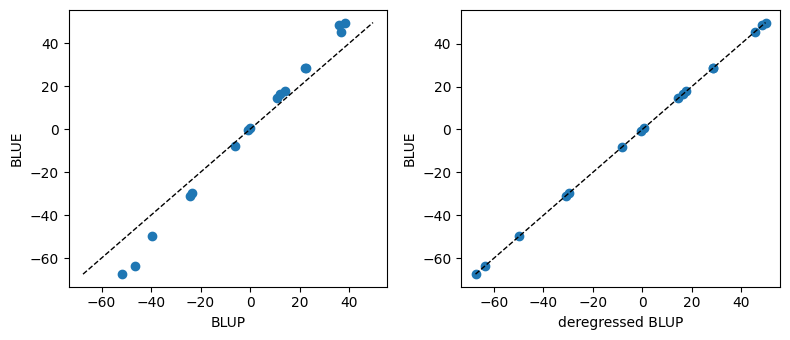
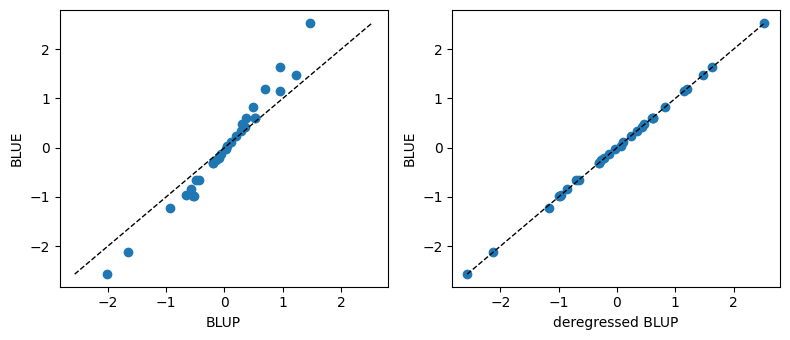
Built site for gh-pages

diff --git a/fixed_random.html b/fixed_random.html
@@ -248,7 +248,6 @@ window.Quarto = {
   <li><a href="#is-there-a-known-variance-structure" id="toc-is-there-a-known-variance-structure" class="nav-link" data-scroll-target="#is-there-a-known-variance-structure">Is there a known variance structure ?</a></li>
   <li><a href="#do-we-aim-generalization-outside-the-training-dataset" id="toc-do-we-aim-generalization-outside-the-training-dataset" class="nav-link" data-scroll-target="#do-we-aim-generalization-outside-the-training-dataset">Do we aim generalization outside the training dataset ?</a></li>
   </ul></li>
-  <li><a href="#ambivalent-effects" id="toc-ambivalent-effects" class="nav-link" data-scroll-target="#ambivalent-effects">Ambivalent effects</a></li>
   </ul>
 </nav>
     </div>
@@ -309,63 +308,79 @@ window.Quarto = {
 <p>The example below makes the concept tangible, isolating the exact mathematical difference between BLUEs and BLUPs.</p>
 <div class="scroll-cell">
 <div class="code-copy-outer-scaffold"><div class="sourceCode" id="cb1"><pre class="sourceCode python code-with-copy"><code class="sourceCode python"><span id="cb1-1"><a href="#cb1-1" aria-hidden="true" tabindex="-1"></a><span class="im">import</span> numpy <span class="im">as</span> np</span>
-<span id="cb1-2"><a href="#cb1-2" aria-hidden="true" tabindex="-1"></a><span class="im">import</span> matplotlib.pyplot <span class="im">as</span> plt</span>
-<span id="cb1-3"><a href="#cb1-3" aria-hidden="true" tabindex="-1"></a><span class="im">from</span> pyreml <span class="im">import</span> (</span>
-<span id="cb1-4"><a href="#cb1-4" aria-hidden="true" tabindex="-1"></a>    MixedModel,</span>
-<span id="cb1-5"><a href="#cb1-5" aria-hidden="true" tabindex="-1"></a>    Random,</span>
-<span id="cb1-6"><a href="#cb1-6" aria-hidden="true" tabindex="-1"></a>    larix <span class="im">as</span> df</span>
-<span id="cb1-7"><a href="#cb1-7" aria-hidden="true" tabindex="-1"></a>)</span>
+<span id="cb1-2"><a href="#cb1-2" aria-hidden="true" tabindex="-1"></a><span class="im">import</span> pandas <span class="im">as</span> pd</span>
+<span id="cb1-3"><a href="#cb1-3" aria-hidden="true" tabindex="-1"></a><span class="im">import</span> matplotlib.pyplot <span class="im">as</span> plt</span>
+<span id="cb1-4"><a href="#cb1-4" aria-hidden="true" tabindex="-1"></a><span class="im">from</span> pyreml <span class="im">import</span> MixedModel, Random</span>
+<span id="cb1-5"><a href="#cb1-5" aria-hidden="true" tabindex="-1"></a></span>
+<span id="cb1-6"><a href="#cb1-6" aria-hidden="true" tabindex="-1"></a><span class="co"># prepare the data: simulate a strongly unbalanced one-way design</span></span>
+<span id="cb1-7"><a href="#cb1-7" aria-hidden="true" tabindex="-1"></a>rng <span class="op">=</span> np.random.default_rng(<span class="dv">1</span>)</span>
 <span id="cb1-8"><a href="#cb1-8" aria-hidden="true" tabindex="-1"></a></span>
-<span id="cb1-9"><a href="#cb1-9" aria-hidden="true" tabindex="-1"></a><span class="co"># prepare the data and fit the models</span></span>
-<span id="cb1-10"><a href="#cb1-10" aria-hidden="true" tabindex="-1"></a>df <span class="op">=</span> df[df[<span class="st">"year"</span>] <span class="op">==</span> <span class="dv">2000</span>].copy()</span>
+<span id="cb1-9"><a href="#cb1-9" aria-hidden="true" tabindex="-1"></a>sigma_u, sigma_e <span class="op">=</span> <span class="fl">1.0</span>, <span class="fl">1.0</span>                  <span class="co"># true random-effect and residual SD</span></span>
+<span id="cb1-10"><a href="#cb1-10" aria-hidden="true" tabindex="-1"></a>counts <span class="op">=</span> [<span class="dv">1</span>] <span class="op">*</span> <span class="dv">10</span> <span class="op">+</span> [<span class="dv">2</span>] <span class="op">*</span> <span class="dv">10</span> <span class="op">+</span> [<span class="dv">3</span>] <span class="op">*</span> <span class="dv">10</span>      <span class="co"># 30 blocs, 60 observations, unbalanced</span></span>
 <span id="cb1-11"><a href="#cb1-11" aria-hidden="true" tabindex="-1"></a></span>
-<span id="cb1-12"><a href="#cb1-12" aria-hidden="true" tabindex="-1"></a>mod_BLUE <span class="op">=</span> MixedModel.from_dataframe(</span>
-<span id="cb1-13"><a href="#cb1-13" aria-hidden="true" tabindex="-1"></a>    data     <span class="op">=</span> df,</span>
-<span id="cb1-14"><a href="#cb1-14" aria-hidden="true" tabindex="-1"></a>    response <span class="op">=</span> <span class="st">"height"</span>,</span>
-<span id="cb1-15"><a href="#cb1-15" aria-hidden="true" tabindex="-1"></a>    fixed    <span class="op">=</span> <span class="st">"1 + C(BLOC, Sum)"</span>,</span>
-<span id="cb1-16"><a href="#cb1-16" aria-hidden="true" tabindex="-1"></a>).fit()</span>
-<span id="cb1-17"><a href="#cb1-17" aria-hidden="true" tabindex="-1"></a></span>
-<span id="cb1-18"><a href="#cb1-18" aria-hidden="true" tabindex="-1"></a>mod_BLUP <span class="op">=</span> MixedModel.from_dataframe(</span>
-<span id="cb1-19"><a href="#cb1-19" aria-hidden="true" tabindex="-1"></a>    data     <span class="op">=</span> df,</span>
-<span id="cb1-20"><a href="#cb1-20" aria-hidden="true" tabindex="-1"></a>    response <span class="op">=</span> <span class="st">"height"</span>,</span>
-<span id="cb1-21"><a href="#cb1-21" aria-hidden="true" tabindex="-1"></a>    random <span class="op">=</span> Random(</span>
-<span id="cb1-22"><a href="#cb1-22" aria-hidden="true" tabindex="-1"></a>        unit <span class="op">=</span> <span class="st">"BLOC"</span></span>
-<span id="cb1-23"><a href="#cb1-23" aria-hidden="true" tabindex="-1"></a>    )</span>
-<span id="cb1-24"><a href="#cb1-24" aria-hidden="true" tabindex="-1"></a>).fit()</span>
-<span id="cb1-25"><a href="#cb1-25" aria-hidden="true" tabindex="-1"></a></span>
-<span id="cb1-26"><a href="#cb1-26" aria-hidden="true" tabindex="-1"></a><span class="co"># format the BLUPs</span></span>
-<span id="cb1-27"><a href="#cb1-27" aria-hidden="true" tabindex="-1"></a>blup_tab <span class="op">=</span> mod_BLUP.random[<span class="dv">0</span>].table.set_index(<span class="st">"unit"</span>)[<span class="st">"prediction"</span>]</span>
-<span id="cb1-28"><a href="#cb1-28" aria-hidden="true" tabindex="-1"></a>levels <span class="op">=</span> blup_tab.index.tolist()</span>
-<span id="cb1-29"><a href="#cb1-29" aria-hidden="true" tabindex="-1"></a>BLUP   <span class="op">=</span> blup_tab.to_numpy()</span>
-<span id="cb1-30"><a href="#cb1-30" aria-hidden="true" tabindex="-1"></a></span>
-<span id="cb1-31"><a href="#cb1-31" aria-hidden="true" tabindex="-1"></a><span class="co"># format the BLUEs</span></span>
-<span id="cb1-32"><a href="#cb1-32" aria-hidden="true" tabindex="-1"></a>blue <span class="op">=</span> mod_BLUE.estimates.set_index(<span class="st">"term"</span>)[<span class="st">"estimate"</span>]</span>
-<span id="cb1-33"><a href="#cb1-33" aria-hidden="true" tabindex="-1"></a>sum_terms  <span class="op">=</span> blue[blue.index.<span class="bu">str</span>.startswith(<span class="st">"C(BLOC, Sum)"</span>)]</span>
-<span id="cb1-34"><a href="#cb1-34" aria-hidden="true" tabindex="-1"></a>sum_levels <span class="op">=</span> sum_terms.index.<span class="bu">str</span>.extract(<span class="vs">r"</span><span class="ch">\[</span><span class="vs">S</span><span class="ch">\.</span><span class="kw">(</span><span class="dv">.</span><span class="op">+</span><span class="kw">)</span><span class="ch">\]</span><span class="vs">"</span>)[<span class="dv">0</span>].tolist()</span>
-<span id="cb1-35"><a href="#cb1-35" aria-hidden="true" tabindex="-1"></a>dev <span class="op">=</span> <span class="bu">dict</span>(<span class="bu">zip</span>(sum_levels, sum_terms.to_numpy()))</span>
-<span id="cb1-36"><a href="#cb1-36" aria-hidden="true" tabindex="-1"></a>(absorbed,) <span class="op">=</span> [lvl <span class="cf">for</span> lvl <span class="kw">in</span> levels <span class="cf">if</span> lvl <span class="kw">not</span> <span class="kw">in</span> dev]</span>
-<span id="cb1-37"><a href="#cb1-37" aria-hidden="true" tabindex="-1"></a>dev[absorbed] <span class="op">=</span> <span class="op">-</span><span class="bu">sum</span>(dev.values())</span>
-<span id="cb1-38"><a href="#cb1-38" aria-hidden="true" tabindex="-1"></a>dev_BLUE <span class="op">=</span> np.array([dev[lvl] <span class="cf">for</span> lvl <span class="kw">in</span> levels])</span>
-<span id="cb1-39"><a href="#cb1-39" aria-hidden="true" tabindex="-1"></a>BLUE <span class="op">=</span> dev_BLUE</span>
-<span id="cb1-40"><a href="#cb1-40" aria-hidden="true" tabindex="-1"></a></span>
-<span id="cb1-41"><a href="#cb1-41" aria-hidden="true" tabindex="-1"></a><span class="co"># compute CD</span></span>
-<span id="cb1-42"><a href="#cb1-42" aria-hidden="true" tabindex="-1"></a>sigma2 <span class="op">=</span> mod_BLUP.random[<span class="dv">0</span>].variance[<span class="st">"sigma"</span>]</span>
-<span id="cb1-43"><a href="#cb1-43" aria-hidden="true" tabindex="-1"></a>Variance  <span class="op">=</span> np.eye(<span class="bu">len</span>(levels)) <span class="op">*</span> sigma2</span>
-<span id="cb1-44"><a href="#cb1-44" aria-hidden="true" tabindex="-1"></a>PEV    <span class="op">=</span> mod_BLUP.random[<span class="dv">0</span>].PEV.numpy()</span>
-<span id="cb1-45"><a href="#cb1-45" aria-hidden="true" tabindex="-1"></a>CD     <span class="op">=</span> (Variance <span class="op">-</span> PEV) <span class="op">@</span> np.linalg.inv(Variance)</span>
-<span id="cb1-46"><a href="#cb1-46" aria-hidden="true" tabindex="-1"></a></span>
-<span id="cb1-47"><a href="#cb1-47" aria-hidden="true" tabindex="-1"></a><span class="co"># compute the deregressed BLUP</span></span>
-<span id="cb1-48"><a href="#cb1-48" aria-hidden="true" tabindex="-1"></a>DEREG <span class="op">=</span> BLUP <span class="op">@</span> np.linalg.pinv(CD)</span>
-<span id="cb1-49"><a href="#cb1-49" aria-hidden="true" tabindex="-1"></a></span>
-<span id="cb1-50"><a href="#cb1-50" aria-hidden="true" tabindex="-1"></a>fig, axes <span class="op">=</span> plt.subplots(<span class="dv">1</span>, <span class="dv">2</span>, figsize<span class="op">=</span>(<span class="dv">8</span>, <span class="fl">3.5</span>))</span>
-<span id="cb1-51"><a href="#cb1-51" aria-hidden="true" tabindex="-1"></a><span class="cf">for</span> ax, x, title <span class="kw">in</span> [(axes[<span class="dv">0</span>], BLUP,  <span class="st">"BLUP"</span>),</span>
-<span id="cb1-52"><a href="#cb1-52" aria-hidden="true" tabindex="-1"></a>                     (axes[<span class="dv">1</span>], DEREG <span class="op">-</span> np.mean(DEREG), <span class="st">"deregressed BLUP"</span>)]:</span>
-<span id="cb1-53"><a href="#cb1-53" aria-hidden="true" tabindex="-1"></a>    ax.scatter(x, BLUE)</span>
-<span id="cb1-54"><a href="#cb1-54" aria-hidden="true" tabindex="-1"></a>    lims <span class="op">=</span> [<span class="bu">min</span>(x.<span class="bu">min</span>(), BLUE.<span class="bu">min</span>()), <span class="bu">max</span>(x.<span class="bu">max</span>(), BLUE.<span class="bu">max</span>())]</span>
-<span id="cb1-55"><a href="#cb1-55" aria-hidden="true" tabindex="-1"></a>    ax.plot(lims, lims, <span class="st">"k--"</span>, lw<span class="op">=</span><span class="dv">1</span>)</span>
-<span id="cb1-56"><a href="#cb1-56" aria-hidden="true" tabindex="-1"></a>    ax.set_xlabel(title)</span>
-<span id="cb1-57"><a href="#cb1-57" aria-hidden="true" tabindex="-1"></a>    ax.set_ylabel(<span class="st">"BLUE"</span>)</span>
-<span id="cb1-58"><a href="#cb1-58" aria-hidden="true" tabindex="-1"></a>plt.tight_layout()<span class="op">;</span> plt.show()</span></code></pre></div><button title="Copy to Clipboard" class="code-copy-button"><i class="bi"></i></button></div>
+<span id="cb1-12"><a href="#cb1-12" aria-hidden="true" tabindex="-1"></a>levels <span class="op">=</span> [<span class="ss">f"B</span><span class="sc">{</span>i<span class="sc">:02d}</span><span class="ss">"</span> <span class="cf">for</span> i <span class="kw">in</span> <span class="bu">range</span>(<span class="bu">len</span>(counts))]</span>
+<span id="cb1-13"><a href="#cb1-13" aria-hidden="true" tabindex="-1"></a>true_u <span class="op">=</span> {lvl: rng.normal(<span class="dv">0</span>, sigma_u) <span class="cf">for</span> lvl <span class="kw">in</span> levels}</span>
+<span id="cb1-14"><a href="#cb1-14" aria-hidden="true" tabindex="-1"></a></span>
+<span id="cb1-15"><a href="#cb1-15" aria-hidden="true" tabindex="-1"></a>rows <span class="op">=</span> []</span>
+<span id="cb1-16"><a href="#cb1-16" aria-hidden="true" tabindex="-1"></a><span class="cf">for</span> lvl, n <span class="kw">in</span> <span class="bu">zip</span>(levels, counts):</span>
+<span id="cb1-17"><a href="#cb1-17" aria-hidden="true" tabindex="-1"></a>    <span class="cf">for</span> _ <span class="kw">in</span> <span class="bu">range</span>(n):</span>
+<span id="cb1-18"><a href="#cb1-18" aria-hidden="true" tabindex="-1"></a>        y <span class="op">=</span> <span class="fl">10.0</span> <span class="op">+</span> true_u[lvl] <span class="op">+</span> rng.normal(<span class="dv">0</span>, sigma_e)</span>
+<span id="cb1-19"><a href="#cb1-19" aria-hidden="true" tabindex="-1"></a>        rows.append({<span class="st">"BLOC"</span>: lvl, <span class="st">"height"</span>: y})</span>
+<span id="cb1-20"><a href="#cb1-20" aria-hidden="true" tabindex="-1"></a>df <span class="op">=</span> pd.DataFrame(rows)</span>
+<span id="cb1-21"><a href="#cb1-21" aria-hidden="true" tabindex="-1"></a></span>
+<span id="cb1-22"><a href="#cb1-22" aria-hidden="true" tabindex="-1"></a><span class="co"># fit the models</span></span>
+<span id="cb1-23"><a href="#cb1-23" aria-hidden="true" tabindex="-1"></a>mod_BLUE <span class="op">=</span> MixedModel.from_dataframe(</span>
+<span id="cb1-24"><a href="#cb1-24" aria-hidden="true" tabindex="-1"></a>    data     <span class="op">=</span> df,</span>
+<span id="cb1-25"><a href="#cb1-25" aria-hidden="true" tabindex="-1"></a>    response <span class="op">=</span> <span class="st">"height"</span>,</span>
+<span id="cb1-26"><a href="#cb1-26" aria-hidden="true" tabindex="-1"></a>    fixed    <span class="op">=</span> <span class="st">"1 + C(BLOC, Sum)"</span>,</span>
+<span id="cb1-27"><a href="#cb1-27" aria-hidden="true" tabindex="-1"></a>).fit()</span>
+<span id="cb1-28"><a href="#cb1-28" aria-hidden="true" tabindex="-1"></a></span>
+<span id="cb1-29"><a href="#cb1-29" aria-hidden="true" tabindex="-1"></a>mod_BLUP <span class="op">=</span> MixedModel.from_dataframe(</span>
+<span id="cb1-30"><a href="#cb1-30" aria-hidden="true" tabindex="-1"></a>    data     <span class="op">=</span> df,</span>
+<span id="cb1-31"><a href="#cb1-31" aria-hidden="true" tabindex="-1"></a>    response <span class="op">=</span> <span class="st">"height"</span>,</span>
+<span id="cb1-32"><a href="#cb1-32" aria-hidden="true" tabindex="-1"></a>    random <span class="op">=</span> Random(</span>
+<span id="cb1-33"><a href="#cb1-33" aria-hidden="true" tabindex="-1"></a>        unit <span class="op">=</span> <span class="st">"BLOC"</span></span>
+<span id="cb1-34"><a href="#cb1-34" aria-hidden="true" tabindex="-1"></a>    )</span>
+<span id="cb1-35"><a href="#cb1-35" aria-hidden="true" tabindex="-1"></a>).fit()</span>
+<span id="cb1-36"><a href="#cb1-36" aria-hidden="true" tabindex="-1"></a></span>
+<span id="cb1-37"><a href="#cb1-37" aria-hidden="true" tabindex="-1"></a><span class="co"># format the BLUPs</span></span>
+<span id="cb1-38"><a href="#cb1-38" aria-hidden="true" tabindex="-1"></a>blup_tab <span class="op">=</span> mod_BLUP.random[<span class="dv">0</span>].table.set_index(<span class="st">"unit"</span>)[<span class="st">"prediction"</span>]</span>
+<span id="cb1-39"><a href="#cb1-39" aria-hidden="true" tabindex="-1"></a>levels <span class="op">=</span> blup_tab.index.tolist()</span>
+<span id="cb1-40"><a href="#cb1-40" aria-hidden="true" tabindex="-1"></a>BLUP   <span class="op">=</span> blup_tab.to_numpy()</span>
+<span id="cb1-41"><a href="#cb1-41" aria-hidden="true" tabindex="-1"></a></span>
+<span id="cb1-42"><a href="#cb1-42" aria-hidden="true" tabindex="-1"></a><span class="co"># format the BLUEs</span></span>
+<span id="cb1-43"><a href="#cb1-43" aria-hidden="true" tabindex="-1"></a>blue <span class="op">=</span> mod_BLUE.estimates.set_index(<span class="st">"term"</span>)[<span class="st">"estimate"</span>]</span>
+<span id="cb1-44"><a href="#cb1-44" aria-hidden="true" tabindex="-1"></a>sum_terms  <span class="op">=</span> blue[blue.index.<span class="bu">str</span>.startswith(<span class="st">"C(BLOC, Sum)"</span>)]</span>
+<span id="cb1-45"><a href="#cb1-45" aria-hidden="true" tabindex="-1"></a>sum_levels <span class="op">=</span> sum_terms.index.<span class="bu">str</span>.extract(<span class="vs">r"</span><span class="ch">\[</span><span class="vs">S</span><span class="ch">\.</span><span class="kw">(</span><span class="dv">.</span><span class="op">+</span><span class="kw">)</span><span class="ch">\]</span><span class="vs">"</span>)[<span class="dv">0</span>].tolist()</span>
+<span id="cb1-46"><a href="#cb1-46" aria-hidden="true" tabindex="-1"></a>dev <span class="op">=</span> <span class="bu">dict</span>(<span class="bu">zip</span>(sum_levels, sum_terms.to_numpy()))</span>
+<span id="cb1-47"><a href="#cb1-47" aria-hidden="true" tabindex="-1"></a>(absorbed,) <span class="op">=</span> [lvl <span class="cf">for</span> lvl <span class="kw">in</span> levels <span class="cf">if</span> lvl <span class="kw">not</span> <span class="kw">in</span> dev]</span>
+<span id="cb1-48"><a href="#cb1-48" aria-hidden="true" tabindex="-1"></a>dev[absorbed] <span class="op">=</span> <span class="op">-</span><span class="bu">sum</span>(dev.values())</span>
+<span id="cb1-49"><a href="#cb1-49" aria-hidden="true" tabindex="-1"></a>dev_BLUE <span class="op">=</span> np.array([dev[lvl] <span class="cf">for</span> lvl <span class="kw">in</span> levels])</span>
+<span id="cb1-50"><a href="#cb1-50" aria-hidden="true" tabindex="-1"></a>BLUE <span class="op">=</span> dev_BLUE</span>
+<span id="cb1-51"><a href="#cb1-51" aria-hidden="true" tabindex="-1"></a></span>
+<span id="cb1-52"><a href="#cb1-52" aria-hidden="true" tabindex="-1"></a><span class="co"># compute CD</span></span>
+<span id="cb1-53"><a href="#cb1-53" aria-hidden="true" tabindex="-1"></a>sigma2 <span class="op">=</span> mod_BLUP.random[<span class="dv">0</span>].variance[<span class="st">"sigma"</span>]</span>
+<span id="cb1-54"><a href="#cb1-54" aria-hidden="true" tabindex="-1"></a>Variance  <span class="op">=</span> np.eye(<span class="bu">len</span>(levels)) <span class="op">*</span> sigma2</span>
+<span id="cb1-55"><a href="#cb1-55" aria-hidden="true" tabindex="-1"></a>PEV    <span class="op">=</span> mod_BLUP.random[<span class="dv">0</span>].PEV.numpy()</span>
+<span id="cb1-56"><a href="#cb1-56" aria-hidden="true" tabindex="-1"></a>CD     <span class="op">=</span> (Variance <span class="op">-</span> PEV) <span class="op">@</span> np.linalg.inv(Variance)</span>
+<span id="cb1-57"><a href="#cb1-57" aria-hidden="true" tabindex="-1"></a></span>
+<span id="cb1-58"><a href="#cb1-58" aria-hidden="true" tabindex="-1"></a><span class="co"># compute the deregressed BLUP</span></span>
+<span id="cb1-59"><a href="#cb1-59" aria-hidden="true" tabindex="-1"></a>DEREG <span class="op">=</span> BLUP <span class="op">@</span> np.linalg.pinv(CD)</span>
+<span id="cb1-60"><a href="#cb1-60" aria-hidden="true" tabindex="-1"></a></span>
+<span id="cb1-61"><a href="#cb1-61" aria-hidden="true" tabindex="-1"></a><span class="co"># how well does each recover the latent effect u ?</span></span>
+<span id="cb1-62"><a href="#cb1-62" aria-hidden="true" tabindex="-1"></a>U <span class="op">=</span> np.array([true_u[lvl] <span class="cf">for</span> lvl <span class="kw">in</span> levels])</span>
+<span id="cb1-63"><a href="#cb1-63" aria-hidden="true" tabindex="-1"></a><span class="bu">print</span>(<span class="ss">f"cor(u, BLUE) = </span><span class="sc">{</span>np<span class="sc">.</span>corrcoef(U, BLUE)[<span class="dv">0</span>, <span class="dv">1</span>]<span class="sc">:.3f}</span><span class="ss">"</span>)</span>
+<span id="cb1-64"><a href="#cb1-64" aria-hidden="true" tabindex="-1"></a><span class="bu">print</span>(<span class="ss">f"cor(u, BLUP) = </span><span class="sc">{</span>np<span class="sc">.</span>corrcoef(U, BLUP)[<span class="dv">0</span>, <span class="dv">1</span>]<span class="sc">:.3f}</span><span class="ss">"</span>)</span>
+<span id="cb1-65"><a href="#cb1-65" aria-hidden="true" tabindex="-1"></a></span>
+<span id="cb1-66"><a href="#cb1-66" aria-hidden="true" tabindex="-1"></a>fig, axes <span class="op">=</span> plt.subplots(<span class="dv">1</span>, <span class="dv">2</span>, figsize<span class="op">=</span>(<span class="dv">8</span>, <span class="fl">3.5</span>))</span>
+<span id="cb1-67"><a href="#cb1-67" aria-hidden="true" tabindex="-1"></a><span class="cf">for</span> ax, x, title <span class="kw">in</span> [(axes[<span class="dv">0</span>], BLUP,  <span class="st">"BLUP"</span>),</span>
+<span id="cb1-68"><a href="#cb1-68" aria-hidden="true" tabindex="-1"></a>                     (axes[<span class="dv">1</span>], DEREG <span class="op">-</span> np.mean(DEREG), <span class="st">"deregressed BLUP"</span>)]:</span>
+<span id="cb1-69"><a href="#cb1-69" aria-hidden="true" tabindex="-1"></a>    ax.scatter(x, BLUE)</span>
+<span id="cb1-70"><a href="#cb1-70" aria-hidden="true" tabindex="-1"></a>    lims <span class="op">=</span> [<span class="bu">min</span>(x.<span class="bu">min</span>(), BLUE.<span class="bu">min</span>()), <span class="bu">max</span>(x.<span class="bu">max</span>(), BLUE.<span class="bu">max</span>())]</span>
+<span id="cb1-71"><a href="#cb1-71" aria-hidden="true" tabindex="-1"></a>    ax.plot(lims, lims, <span class="st">"k--"</span>, lw<span class="op">=</span><span class="dv">1</span>)</span>
+<span id="cb1-72"><a href="#cb1-72" aria-hidden="true" tabindex="-1"></a>    ax.set_xlabel(title)</span>
+<span id="cb1-73"><a href="#cb1-73" aria-hidden="true" tabindex="-1"></a>    ax.set_ylabel(<span class="st">"BLUE"</span>)</span>
+<span id="cb1-74"><a href="#cb1-74" aria-hidden="true" tabindex="-1"></a>plt.tight_layout()<span class="op">;</span> plt.show()</span></code></pre></div><button title="Copy to Clipboard" class="code-copy-button"><i class="bi"></i></button></div>
 </div>
 <div class="quarto-figure quarto-figure-center">
 <figure class="figure">
@@ -376,17 +391,18 @@ window.Quarto = {
 <li><p>The left panel shows the raw BLUPs against the matching BLUEs:</p>
 <ul>
 <li><p>the amplitude of BLUPs is always lower than the amplitude of BLUEs, preventing them from capturing as much variance in the training set.</p></li>
-<li><p>the rdistance from the BLUPs to the BLUEs is idiosyncratic, and dependent of the individual level of reliability around each BLUP.</p></li>
+<li><p>the distance from the BLUPs to the BLUEs is idiosyncratic, and dependent of the individual level of reliability around each BLUP.</p></li>
 </ul></li>
 <li><p>The right panel shows the deregressed BLUPs against the same BLUEs: once the shrinkage is removed, the points fall back onto an exact identity line. The whole difference between a BLUP and a BLUE is this reliability-driven shrinkage.</p></li>
 </ul>
+<p>In this example, the correlation between BLUEs and the true simulated values is <code>0.687</code> and the correlation between BLUPs and the true simulated values is <code>0.743</code>. Shrinkage can be seen as the regularization commonly used in machine learning, that consists in trading fit to the training set for generalizability, this is illustrated by the higher accuracy of the BLUPs in this example.</p>
 </section>
 <section id="arguments-in-favor-of-a-fixed-effect" class="level2">
 <h2 class="anchored" data-anchor-id="arguments-in-favor-of-a-fixed-effect">Arguments in favor of a fixed effect</h2>
 <section id="can-the-effect-be-seen-as-drawn-from-a-population-of-effects" class="level3">
 <h3 class="anchored" data-anchor-id="can-the-effect-be-seen-as-drawn-from-a-population-of-effects">Can the effect be seen as drawn from a population of effects?</h3>
 <p>This is the first question to ask, because if the levels at hand are not exchangeable members of some larger population, the distributional assumption <span class="math inline">\(\mathbf{a} \sim \mathcal{N}(0,
-\mathbf{\Sigma_a})\)</span> is simply not meaningful. When there is no population to speak of, there is no real choice: the effect has to be fixed.</p>
+\mathbf{G_a})\)</span> is simply not meaningful. When there is no population to speak of, there is no real choice: the effect has to be fixed.</p>
 </section>
 <section id="are-there-enough-levels-to-estimate-a-variance" class="level3">
 <h3 class="anchored" data-anchor-id="are-there-enough-levels-to-estimate-a-variance">Are there enough levels to estimate a variance?</h3>
@@ -395,6 +411,7 @@ window.Quarto = {
 <section id="do-we-want-to-absorb-confounding-coming-from-the-design" class="level3">
 <h3 class="anchored" data-anchor-id="do-we-want-to-absorb-confounding-coming-from-the-design">Do we want to absorb confounding coming from the design?</h3>
 <p>Effects that exist only to control for the structure of the experiment, such as a block, a batch, or any other nuisance factor, are best removed as completely as possible. Treating them as fixed soaks up their contribution entirely (maximizing their partial <span class="math inline">\(R^2\)</span>, as discussed in the <a href="./fixed_random.html#the-blup-intuition">previous section</a>) rather than shrinking it, which protects the effects of focal interest from design-induced confounding ones.</p>
+<p>When the set-up is unbalanced, some of the variance of the focal effects can be confounded and erased by treating design effects as fixed. Using the design effects as fixed can be seen as conservative.</p>
 </section>
 </section>
 <section id="arguments-in-favor-of-a-random-effect" class="level2">
@@ -402,7 +419,7 @@ window.Quarto = {
 <section id="are-the-degrees-of-freedom-available-to-estimate-one-effect-per-level" class="level3">
 <h3 class="anchored" data-anchor-id="are-the-degrees-of-freedom-available-to-estimate-one-effect-per-level">Are the degrees of freedom available to estimate one effect per level ?</h3>
 <p>When the number of levels is large relative to the data, as with an effect specified at the individual level, estimating every level as a free fixed parameter exhausts the degrees of freedom and yields noisy, overfit estimates. A random effect regularises the problem: by tying the levels to a common distribution it spends a single variance parameter instead of one estimate per level, and the shrinkage keeps the estimates stable.</p>
-<p>This is often more a pragmatic argument than a conceptual one, constraining the choice toward picking <em>e.g.</em> design effects as random for the sake of parcimony, even though they would be theoretically optimally selected as random as to get rid of the most of indesirable, confounded variance.</p>
+<p>This is often more a pragmatic argument than a conceptual one, constraining the choice toward picking <em>e.g.</em> design effects as random for the sake of parsimony, even though they would be theoretically optimally selected as random as to get rid of the most of undesirable, confounded variance.</p>
 </section>
 <section id="is-there-a-known-variance-structure" class="level3">
 <h3 class="anchored" data-anchor-id="is-there-a-known-variance-structure">Is there a known variance structure ?</h3>
@@ -411,17 +428,11 @@ window.Quarto = {
 </section>
 <section id="do-we-aim-generalization-outside-the-training-dataset" class="level3">
 <h3 class="anchored" data-anchor-id="do-we-aim-generalization-outside-the-training-dataset">Do we aim generalization outside the training dataset ?</h3>
-<p>As mentionned in the <a href="./fixed_random.html#the-blup-intuition">previous section</a>, the BLUPs are mathematically built as to maximize the generalizability of a prediction. As opposed to a commun misconception, the focal interest for an effect and its generalizability argues in favor of considering it as random.</p>
+<p>As mentioned in the <a href="./fixed_random.html#the-blup-intuition">previous section</a>, and illustrated in this example, the BLUPs are mathematically built as to maximize the generalizability of a prediction. As opposed to a common misconception, the focal interest for an effect and its generalizability argues in favor of considering it as random.</p>
+
+
+
 </section>
-</section>
-<section id="ambivalent-effects" class="level2">
-<h2 class="anchored" data-anchor-id="ambivalent-effects">Ambivalent effects</h2>
-<p>When the arguments above do not point clearly in one direction, the decision can be weighted by comparing the two candidate models on the AIC which balances the fit quality against the number of parameters each formulation spends.</p>
-<div class="code-copy-outer-scaffold"><div class="sourceCode" id="cb2"><pre class="sourceCode python code-with-copy"><code class="sourceCode python"><span id="cb2-1"><a href="#cb2-1" aria-hidden="true" tabindex="-1"></a><span class="bu">print</span>(mod_BLUE.AIC)</span>
-<span id="cb2-2"><a href="#cb2-2" aria-hidden="true" tabindex="-1"></a><span class="bu">print</span>(mod_BLUP.AIC)</span></code></pre></div><button title="Copy to Clipboard" class="code-copy-button"><i class="bi"></i></button></div>
-
-
-
 </section>
 
 <div id="quarto-appendix" class="default"><section class="quarto-appendix-contents" role="doc-bibliography" id="quarto-bibliography"><h2 class="anchored quarto-appendix-heading">References</h2><div id="refs" class="references csl-bib-body hanging-indent" data-entry-spacing="0" data-line-spacing="2" role="list">